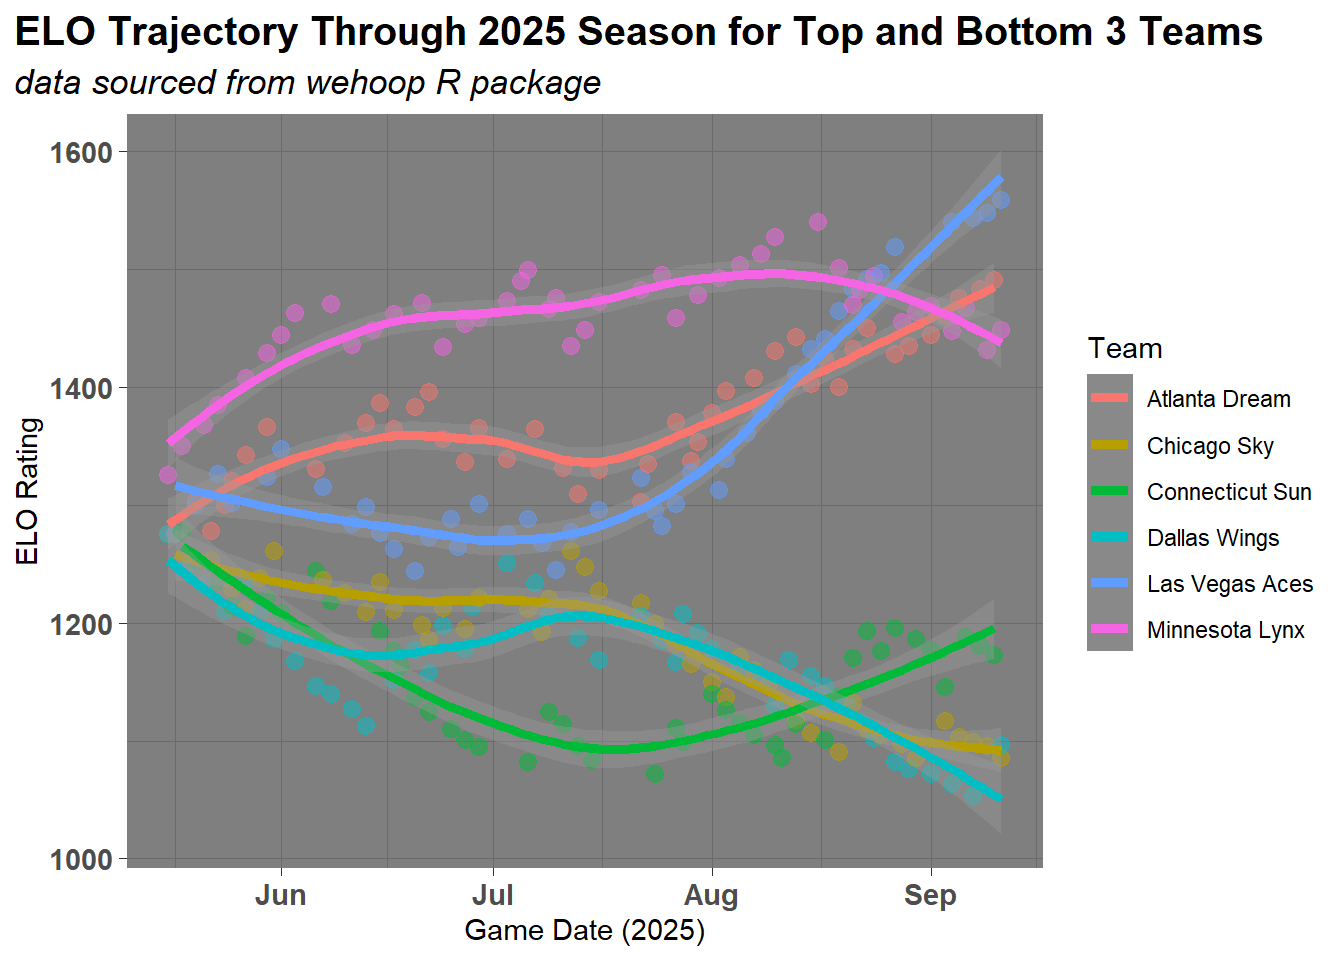
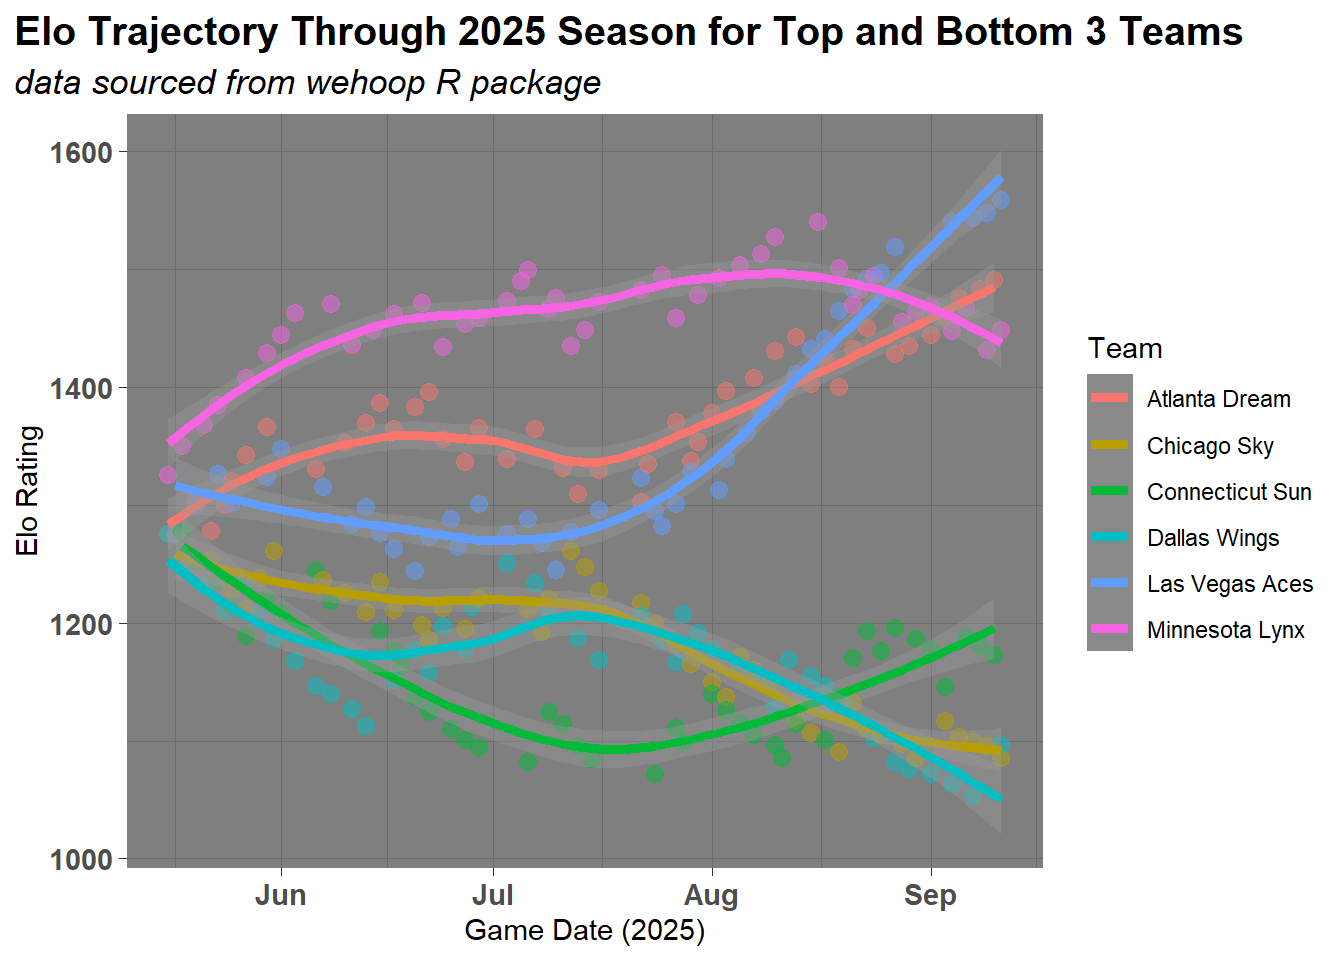
re-rendered

Changed region(s): [[0.0312, 0.0, 0.9375, 0.0625], [0.0, 0.4375, 0.0312, 0.5938]]

diff --git a/Project1-KCH-WNBA_ELO_Ratings-Codebase.html b/Project1-KCH-WNBA_ELO_Ratings-Codebase.html
@@ -9,7 +9,7 @@
 <meta name="author" content="Kailot C. Harris">
 <meta name="dcterms.date" content="2026-09-20">
 
-<title>DATA 607 - Project 1 - WNBA ELO Ratings</title>
+<title>DATA 607 - Project 1 - WNBA Elo Ratings</title>
 <style>
 /* Default styles provided by pandoc.
 ** See https://pandoc.org/MANUAL.html#variables-for-html for config info.
@@ -249,7 +249,7 @@ pre > code.sourceCode > span > a:first-child::before { text-decoration: underlin
 
 <header id="title-block-header" class="quarto-title-block default">
 <div class="quarto-title">
-<h1 class="title">DATA 607 - Project 1 - WNBA ELO Ratings</h1>
+<h1 class="title">DATA 607 - Project 1 - WNBA Elo Ratings</h1>
 </div>
 
 
@@ -280,13 +280,13 @@ pre > code.sourceCode > span > a:first-child::before { text-decoration: underlin
 
 <section id="introduction-and-overview" class="level1">
 <h1>Introduction and Overview</h1>
-<p>In this project, the ELO rating methodology, which was developed to rank Chess players by Arpad Elo, will be applied to WNBA teams. Data will be sourced from the wehoop R package (<a href="https://wehoop.sportsdataverse.org/" class="uri">https://wehoop.sportsdataverse.org/</a>). A convention established by the fivethirtyeight blog, and repeated in this article (<a href="https://nicidob.github.io/nba_elo/" class="uri">https://nicidob.github.io/nba_elo/</a>) applying ELO ratings to NBA teams, is to start with a baseline value of 1300 for each team.</p>
-<p>Anticipated challenges involve maintaining a reasonable scale: WNBA data exists extending back to 1997, and computing 29 seasons of ELO ratings may prove cumbersome if an efficient and repeatable architecture is not implemented from the start. The 2025 season will be used as a baseline from which the methods can be extended backward to cover the entire WNBA history, if practical. Other anticipated challenges may arise when visualizing the results of this analysis. A potential graph could compare ELO ratings vs time for a select group of teams.</p>
+<p>In this project, the Elo rating methodology, which was developed to rank Chess players by Arpad Elo, will be applied to WNBA teams. Data will be sourced from the <a href="https://wehoop.sportsdataverse.org/">wehoop R package</a>. A convention established by the <a href="fivethirtyeight.com">FiveThirtyEight</a> blog, and repeated in this <a href="https://nicidob.github.io/nba_elo/">article</a> applying Elo ratings to NBA teams, is to start with a baseline value of 1300 for each team.</p>
+<p>Anticipated challenges involve maintaining a reasonable scale: WNBA data exists extending back to 1997, and computing 29 seasons of Elo ratings may prove cumbersome if an efficient and repeatable architecture is not implemented from the start. The 2025 season will be used as a baseline from which the methods can be extended backward to cover the entire WNBA history, if practical. The 2025 season is the most recently resolved regular season. Other anticipated challenges may arise when visualizing the results of this analysis. A potential graph could compare Elo ratings vs time for a select group of teams.</p>
 </section>
 <section id="adaptation" class="level1">
 <h1>Adaptation</h1>
-<p>The original project assignment, related to a chess tournament, asked for specific outputs in a .csv file (e.g.&nbsp;player name, player state, total number of points, player pre-rating, and average opponent rating). For this adapted project, the output .csv file will contain columns for: team name, total wins, final ELO rating, and opponents’ average ELO rating.</p>
-<p>In the context of a single WNBA season, the last metric (opponents’ average ELO rating) is not an effective proxy for strength of schedule, due to the balanced, round-robin structure of the WNBA. There are 13 teams (as of 2025) and each team plays each opponent team 3 or 4 times total in a season, amounting to 44 total games per team. Because ELO is a zero-sum system with a baseline value, the mean rating of all teams played over the course of a season will tend toward the baseline ELO rating of 1300 .If this project is extended to trace multiyear ELO rating trajectories, then the opponents’ average ELO rating may hold more significance for analysis.</p>
+<p>The original project assignment, related to a chess tournament, asked for specific outputs in a .csv file (e.g.&nbsp;player name, player state, total number of points, player pre-rating, and average opponent rating). For this adapted project, the output .csv file will contain columns for: team name, total wins, final Elo rating, and opponents’ average Elo rating.</p>
+<p>In the context of a single WNBA season, the last metric (opponents’ average Elo rating) is not an effective proxy for strength of schedule, due to the balanced, round-robin structure of the WNBA. There are 13 teams (as of 2025) and each team plays each opponent team 3 or 4 times total in a season, amounting to 44 total games per team. Because Elo is a zero-sum system with a baseline value, the mean rating of all teams played over the course of a season will tend toward the baseline Elo rating of 1300 .If this project is extended to trace multiyear Elo rating trajectories, then the opponents’ average Elo rating may hold more significance for analysis.</p>
 </section>
 <section id="codebase" class="level1">
 <h1>Codebase</h1>
@@ -337,8 +337,8 @@ pre > code.sourceCode > span > a:first-child::before { text-decoration: underlin
 <span id="cb3-15"><a href="#cb3-15" aria-hidden="true" tabindex="-1"></a>         <span class="at">home_team_winner =</span> team_winner</span>
 <span id="cb3-16"><a href="#cb3-16" aria-hidden="true" tabindex="-1"></a>  )</span></code></pre></div><button title="Copy to Clipboard" class="code-copy-button"><i class="bi"></i></button></div>
 </div>
-<p>The two split data frames are then rejoined around a common <code>game_id</code> key. Inspecting the results revealed that “TEAM CLARK” and “TEAM COLLIER” are present in the home team display names and away team display names, respectively. This row represents the All-Star Game match-up, and this game can be removed from the data frame by filtering in all teams with display names that are neither “TEAM CLARK” nor “TEAM COLLIER”. The success of this step is confirmed via the <code>unique()</code> function.</p>
-<p>In an initial run of this pipeline, two teams finished the season with 45 games played, compared to the overwhelming mode of 44 total games played. The Minnesota Lynx and the Indiana Fever had an extra game compared to other teams. No duplicate <code>game_id</code> rows were found. Instead, a data discrepancy in the ESPN source data was identified: a Commissioner’s Cup game (specifically, the championship game betwen the Minnesota Lynx and Indian Fever) was included in the regular season data set (<code>season_type == 2</code>. This game was removed from the data frame by filtering in all games with a <code>game_id</code> not equal to that game’s <code>game_id</code>.</p>
+<p>The two split data frames are then rejoined around a common <code>game_id</code> key. Inspecting the results revealed that “TEAM CLARK” and “TEAM COLLIER” are present in the home team display names and away team display names, respectively. This row represents the All-Star Game match-up, and this game can be removed from the data frame by filtering for teams with display names that are neither “TEAM CLARK” nor “TEAM COLLIER”. The success of this step is confirmed via the <code>unique()</code> function.</p>
+<p>In an initial run of this pipeline, two teams finished the season with 45 games played, compared to the overwhelming mode of 44 total games played. The Minnesota Lynx and the Indiana Fever had an extra game compared to other teams. No duplicate <code>game_id</code> rows were found. Instead, a data discrepancy in the ESPN source data was identified: a Commissioner’s Cup game (specifically, the championship game between the Minnesota Lynx and Indiana Fever) was included in the regular season data set (<code>season_type == 2)</code>. This game was removed from the data frame by filtering out that game’s specific <code>game_id</code>.</p>
 <div class="cell">
 <div class="code-copy-outer-scaffold"><div class="sourceCode cell-code" id="cb4"><pre class="sourceCode r code-with-copy"><code class="sourceCode r"><span id="cb4-1"><a href="#cb4-1" aria-hidden="true" tabindex="-1"></a>full_df <span class="ot">&lt;-</span> <span class="fu">inner_join</span>(away_df, home_df, <span class="at">by =</span> <span class="st">"game_id"</span>) <span class="sc">|&gt;</span></span>
 <span id="cb4-2"><a href="#cb4-2" aria-hidden="true" tabindex="-1"></a>  <span class="fu">mutate</span>(<span class="at">home_win =</span> <span class="fu">if_else</span>(home_team_winner <span class="sc">==</span> <span class="cn">TRUE</span>, <span class="dv">1</span>, <span class="dv">0</span>)) <span class="sc">|&gt;</span></span>
@@ -371,8 +371,8 @@ pre > code.sourceCode > span > a:first-child::before { text-decoration: underlin
 </div>
 </section>
 <section id="calculating-running-elo-ratings" class="level2">
-<h2 class="anchored" data-anchor-id="calculating-running-elo-ratings">Calculating Running ELO Ratings</h2>
-<p>A running ELO rating is calculated using the ELO R package with documentation here: <a href="https://cran.r-project.org/web/packages/elo/index.html" class="uri">https://cran.r-project.org/web/packages/elo/index.html</a>. The elo.run() function will be used, which is documented in this specific vignette: <a href="https://cran.r-project.org/web/packages/elo/vignettes/running_elos.html" class="uri">https://cran.r-project.org/web/packages/elo/vignettes/running_elos.html</a>.</p>
+<h2 class="anchored" data-anchor-id="calculating-running-elo-ratings">Calculating Running Elo Ratings</h2>
+<p>A running Elo rating is calculated using the <a href="https://cran.r-project.org/web/packages/elo/index.html">Elo R package</a> with documentation here: . The <code>elo.run()</code> function will be used, which is documented in this <a href="https://cran.r-project.org/web/packages/elo/vignettes/running_elos.html">specific vignette</a>. The initial K value has been set to a value of 50. In the github article above, the author noted that varying K between 20 and 50 did not fundamentally alter the accuracy of their Elo-based predictions. Since the WNBA season is relatively short (44 games) compared to the NBA (82 games), a high, stable K value is preferred so that the Elo ratings are more responsive to intra-season momentum. The baseline Elo rating for the beginning of the 2025 season was set to 1300, as is convention for NBA Elo ratings analysis. Future work could perform experiments where these two parameters are tuned to find optimal settings for predictive accuracy.</p>
 <div class="cell">
 <div class="code-copy-outer-scaffold"><div class="sourceCode cell-code" id="cb5"><pre class="sourceCode r code-with-copy"><code class="sourceCode r"><span id="cb5-1"><a href="#cb5-1" aria-hidden="true" tabindex="-1"></a>K <span class="ot">&lt;-</span> <span class="fu">as.integer</span>(<span class="dv">50</span>)</span>
 <span id="cb5-2"><a href="#cb5-2" aria-hidden="true" tabindex="-1"></a>default_elo <span class="ot">&lt;-</span> <span class="fu">as.integer</span>(<span class="dv">1300</span>)</span>
@@ -387,8 +387,8 @@ pre > code.sourceCode > span > a:first-child::before { text-decoration: underlin
 </div>
 </section>
 <section id="tidying-elo-results" class="level2">
-<h2 class="anchored" data-anchor-id="tidying-elo-results">Tidying ELO Results</h2>
-<p>The <code>elo_results</code> data frame is appended to the <code>full_df</code> data frame, which merges the ELO calculations into the transformed game data. Pre- and post-game ELO ratings are stored for each home and away team, and only columns relevant to further analysis are selected.</p>
+<h2 class="anchored" data-anchor-id="tidying-elo-results">Tidying Elo Results</h2>
+<p>The <code>elo_results</code> data frame is appended to the <code>full_df</code> data frame, which merges the Elo calculations into the transformed game data. Pre- and post-game Elo ratings are stored for each home and away team, and only columns relevant to further analysis are selected.</p>
 <div class="cell">
 <div class="code-copy-outer-scaffold"><div class="sourceCode cell-code" id="cb6"><pre class="sourceCode r code-with-copy"><code class="sourceCode r"><span id="cb6-1"><a href="#cb6-1" aria-hidden="true" tabindex="-1"></a>full_elo_df <span class="ot">&lt;-</span> <span class="fu">bind_cols</span>(full_df, elo_results) </span>
 <span id="cb6-2"><a href="#cb6-2" aria-hidden="true" tabindex="-1"></a></span>
@@ -582,7 +582,7 @@ pre > code.sourceCode > span > a:first-child::before { text-decoration: underlin
 <span id="cb10-10"><a href="#cb10-10" aria-hidden="true" tabindex="-1"></a>  <span class="fu">ggplot</span>(<span class="fu">aes</span>(<span class="at">x=</span>game_date, <span class="at">y=</span>team_elo_post, <span class="at">color =</span> team)) <span class="sc">+</span></span>
 <span id="cb10-11"><a href="#cb10-11" aria-hidden="true" tabindex="-1"></a>  <span class="fu">geom_point</span>(<span class="at">alpha =</span> <span class="fl">0.5</span>, <span class="at">show.legend =</span> <span class="cn">FALSE</span>, <span class="at">size =</span> <span class="fl">2.75</span>) <span class="sc">+</span></span>
 <span id="cb10-12"><a href="#cb10-12" aria-hidden="true" tabindex="-1"></a>  <span class="fu">geom_smooth</span>(<span class="at">method =</span> <span class="st">'loess'</span>, <span class="at">formula =</span> <span class="st">'y~x'</span>, <span class="at">show.legend =</span> <span class="cn">TRUE</span>, <span class="at">linewidth =</span> <span class="fl">1.75</span>) <span class="sc">+</span></span>
-<span id="cb10-13"><a href="#cb10-13" aria-hidden="true" tabindex="-1"></a>  <span class="fu">labs</span>(<span class="at">title =</span> <span class="st">"ELO Trajectory Through 2025 Season for Top and Bottom 3 Teams"</span>, <span class="at">subtitle =</span> <span class="st">"data sourced from wehoop R package"</span>, <span class="at">y=</span> <span class="st">"ELO Rating"</span>, <span class="at">x=</span> <span class="st">"Game Date (2025)"</span>, <span class="at">color =</span> <span class="st">"Team"</span>) <span class="sc">+</span></span>
+<span id="cb10-13"><a href="#cb10-13" aria-hidden="true" tabindex="-1"></a>  <span class="fu">labs</span>(<span class="at">title =</span> <span class="st">"Elo Trajectory Through 2025 Season for Top and Bottom 3 Teams"</span>, <span class="at">subtitle =</span> <span class="st">"data sourced from wehoop R package"</span>, <span class="at">y=</span> <span class="st">"Elo Rating"</span>, <span class="at">x=</span> <span class="st">"Game Date (2025)"</span>, <span class="at">color =</span> <span class="st">"Team"</span>) <span class="sc">+</span></span>
 <span id="cb10-14"><a href="#cb10-14" aria-hidden="true" tabindex="-1"></a>  <span class="fu">theme_dark</span>() <span class="sc">+</span></span>
 <span id="cb10-15"><a href="#cb10-15" aria-hidden="true" tabindex="-1"></a>  <span class="fu">theme</span>(</span>
 <span id="cb10-16"><a href="#cb10-16" aria-hidden="true" tabindex="-1"></a>    <span class="at">plot.title.position =</span> <span class="st">"plot"</span>,</span>
@@ -616,7 +616,7 @@ pre > code.sourceCode > span > a:first-child::before { text-decoration: underlin
 <span id="cb11-13"><a href="#cb11-13" aria-hidden="true" tabindex="-1"></a>  <span class="fu">geom_col</span>(<span class="at">fill =</span> <span class="st">"red"</span>, <span class="at">width =</span> <span class="fl">0.75</span>, <span class="at">alpha =</span> <span class="fl">0.7</span>) <span class="sc">+</span></span>
 <span id="cb11-14"><a href="#cb11-14" aria-hidden="true" tabindex="-1"></a>  <span class="fu">geom_text</span>(<span class="fu">aes</span>(<span class="at">label =</span> <span class="fu">paste</span>(<span class="st">"+"</span>, <span class="fu">round</span>(elo_diff, <span class="dv">0</span>), <span class="st">" pts"</span>)), </span>
 <span id="cb11-15"><a href="#cb11-15" aria-hidden="true" tabindex="-1"></a>            <span class="at">hjust =</span> <span class="fl">1.15</span>, <span class="at">size =</span> <span class="dv">4</span>, <span class="at">fontface =</span> <span class="st">"bold"</span>) <span class="sc">+</span></span>
-<span id="cb11-16"><a href="#cb11-16" aria-hidden="true" tabindex="-1"></a>  <span class="fu">labs</span>(<span class="at">title =</span> <span class="st">"Largest Upset Victories in 2025 Season"</span>, <span class="at">subtitle =</span> <span class="st">"(ranked by ELO gain)"</span>, <span class="at">y=</span><span class="cn">NULL</span>, <span class="at">x =</span> <span class="st">"ELO Gain"</span>, <span class="at">caption =</span> <span class="st">"data sourced from wehoop R package"</span>) <span class="sc">+</span></span>
+<span id="cb11-16"><a href="#cb11-16" aria-hidden="true" tabindex="-1"></a>  <span class="fu">labs</span>(<span class="at">title =</span> <span class="st">"Largest Upset Victories in 2025 Season"</span>, <span class="at">subtitle =</span> <span class="st">"(ranked by Elo gain)"</span>, <span class="at">y=</span><span class="cn">NULL</span>, <span class="at">x =</span> <span class="st">"Elo Gain"</span>, <span class="at">caption =</span> <span class="st">"data sourced from wehoop R package"</span>) <span class="sc">+</span></span>
 <span id="cb11-17"><a href="#cb11-17" aria-hidden="true" tabindex="-1"></a>  <span class="fu">theme_dark</span>() <span class="sc">+</span></span>
 <span id="cb11-18"><a href="#cb11-18" aria-hidden="true" tabindex="-1"></a>  <span class="fu">scale_x_continuous</span>(</span>
 <span id="cb11-19"><a href="#cb11-19" aria-hidden="true" tabindex="-1"></a>    <span class="at">limits =</span> <span class="fu">c</span>(<span class="dv">0</span>, <span class="dv">50</span>)) <span class="sc">+</span></span>
